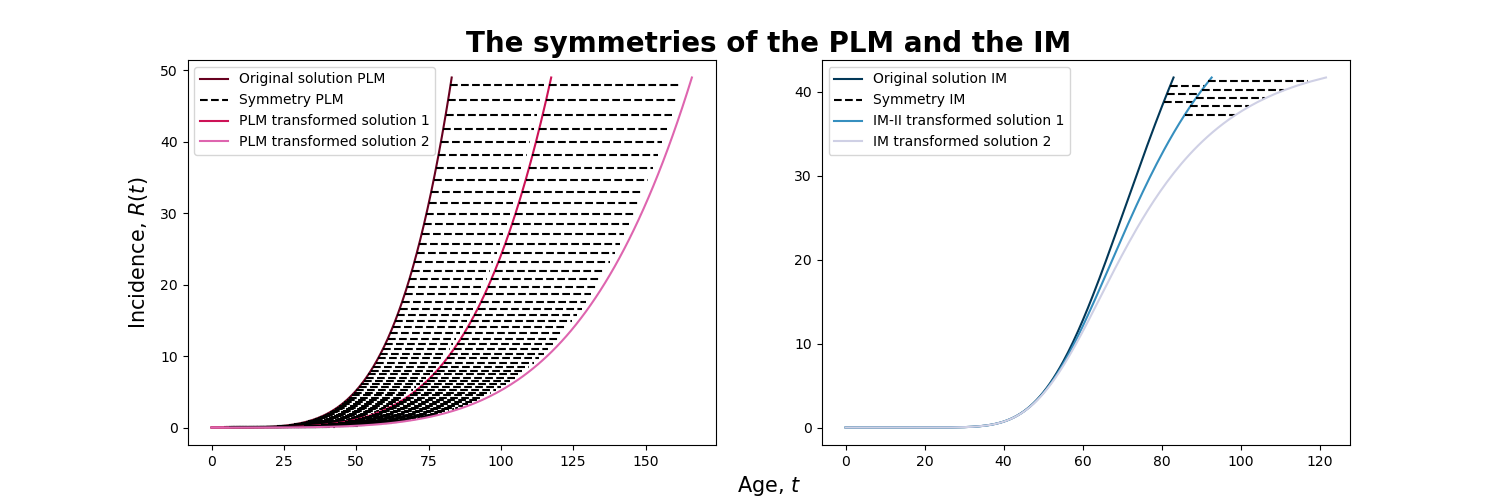
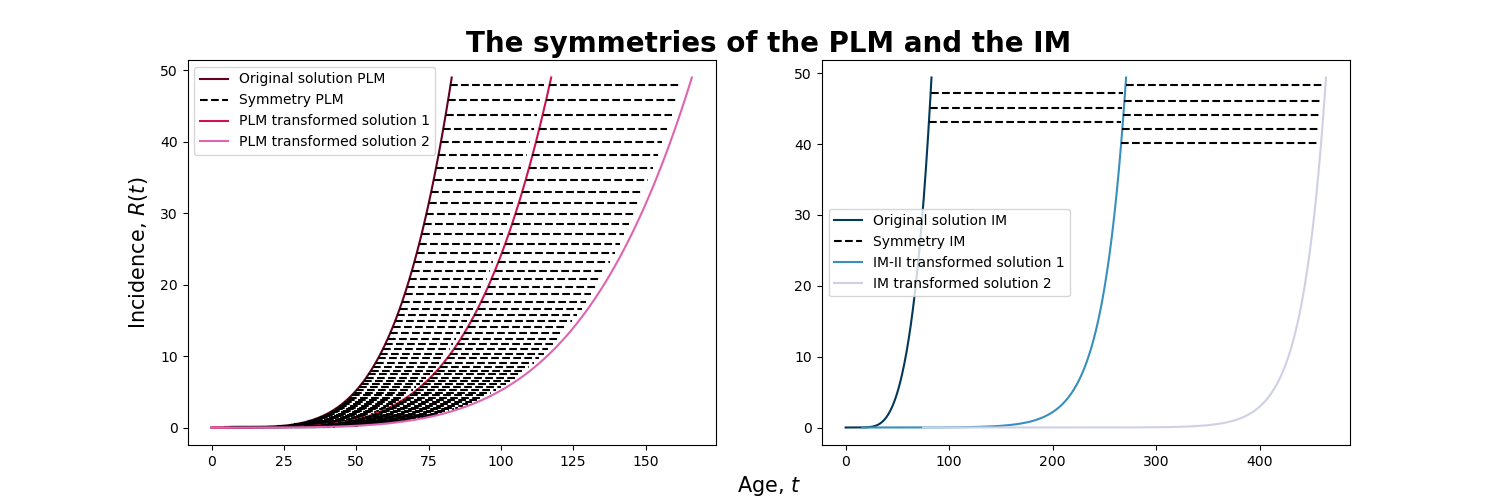
Trying Mystery Gamma

diff --git a/Code/symmetry_toolbox.py b/Code/symmetry_toolbox.py
@@ -111,7 +111,7 @@ def PLM_transformation_scale(n):
 # The symmetry of the immunological model IM
 def IM_symmetry(t,R,epsilon,tau,alpha):
     # Define t_hat recursively
-    t_hat =  np.log(np.log(np.exp(np.exp(-alpha*(t-tau))) - (alpha*np.exp(alpha*tau)*epsilon) ))
+    t_hat =  np.log(np.log(np.exp(-epsilon+np.exp(-alpha*(t-tau))) +1 - np.exp(-epsilon) ))
     t_hat = tau - ((t_hat)/(alpha))
     R_hat = R
     return t_hat,R_hat
@@ -303,10 +303,10 @@ def symmetry_based_model_selection(t_data,R_data,epsilon_vector,model_fitting_st
                 # Fit the PLM to the data without any start guesses
                 fitting_structure, R_hat, RMS, fitting_successful  = fit_to_data.PE_risk_profiles(t_trans,R_trans,"PLM","ODR",[1,0],[original_para[0]*np.exp(-original_para[1]*epsilon), original_para[1]])
             elif model_str == "IM":
-                C_vec = np.linspace(-5,1,10)
-                start_guesses = [[original_para[0],original_para[1],C,original_para[3]] for C in C_vec]
+                A_vec = np.linspace(-5,1,10)
+                start_guesses = [[A,original_para[1],original_para[2],original_para[3]] for A in A_vec]
                 # Fit the IM to the data but without any start guesses
-                fitting_structure, R_hat, RMS, fitting_successful  = fit_to_data.PE_risk_profiles(t_trans,R_trans,"IM","ODR",[0,0,1,0],start_guesses)                          
+                fitting_structure, R_hat, RMS, fitting_successful  = fit_to_data.PE_risk_profiles(t_trans,R_trans,"IM","ODR",[1,0,0,0],start_guesses)                          
             # If fitting was successful, we do the remaining two steps of the algorithm. Otherwise, we break and return our results
             if fitting_successful:                
                 #------------------------------------------------------
@@ -316,7 +316,7 @@ def symmetry_based_model_selection(t_data,R_data,epsilon_vector,model_fitting_st
                     parameters_inverse = [fitting_structure.beta[0]*np.exp(fitting_structure.beta[1]*epsilon),fitting_structure.beta[1]]
                 elif model_str == "IM":
                     # Define the parameters of the inversely transformed curve of the IM (parameters=[A, tau, C, alpha])
-                    parameters_inverse = [fitting_structure.beta[0],fitting_structure.beta[1],fitting_structure.beta[2] + fitting_structure.beta[3]*np.exp(fitting_structure.beta[3]*fitting_structure.beta[1])*epsilon,fitting_structure.beta[3]]                
+                    parameters_inverse = [fitting_structure.beta[0]*np.exp(epsilon),fitting_structure.beta[1],fitting_structure.beta[2],fitting_structure.beta[3]]                
                 #------------------------------------------------------
                 # STEP 4 OUT OF 4: CALCULATE THE FIT OF THE INVERSELY TRANSFORMED CURVE TO THE ORIGINAL DATA
                 # Loop over the transformed time series

diff --git a/Code/fit_to_data.py b/Code/fit_to_data.py
@@ -103,7 +103,7 @@ def PE_risk_profiles(t, R, model_str, fit_string, fixed_parameters, start_guesse
             # In the end, we pick the parameters resulting in the lowest minima. This
             # is because we have a non-convex optimisation problem with many local minima.
             A_vec = np.linspace(0.01, 50, num_of_start_guesses*3, endpoint=True)
-            C_vec = np.linspace(0.5, 1, num_of_start_guesses, endpoint=True)
+            C_vec = np.array([1])
             tau_vec = np.linspace(30, 40, num_of_start_guesses, endpoint=True)
             alpha_vec = np.array([0.044])
             # Save all start guesses in a big list which we loop over in the end
@@ -128,7 +128,7 @@ def PE_risk_profiles(t, R, model_str, fit_string, fixed_parameters, start_guesse
                 odr = ODR(data, model, beta0=parameter_guess, sstol=1e-15, partol=1e-15)
             elif model_str == "IM":
                 # Set up ODR with the model and data.
-                odr = ODR(data, model, beta0=parameter_guess, ifixb=[1, 1, 1, 0],sstol=1e-15, partol=1e-15)                
+                odr = ODR(data, model, beta0=parameter_guess, ifixb=[1, 1, 0, 0],sstol=1e-15, partol=1e-15)                
         else:
             # Set up ODR with the model and data and fixed parameters.
             odr = ODR(data, model, beta0=parameter_guess,

diff --git a/Code/symmetry_analysis_PLM_vs_IM.py b/Code/symmetry_analysis_PLM_vs_IM.py
@@ -143,11 +143,11 @@ plt.savefig("../Figures/Fit_of_models_to_cancer_data.png")
 epsilon_scale_PLM = symmetry_toolbox.PLM_transformation_scale(2)
 # The IM
 # Myeloma data
-epsilon_scale_IM_myeloma = symmetry_toolbox.IM_transformation_scale(85,2,IM_fitted_to_myeloma_ODR.beta[3],IM_fitted_to_myeloma_ODR.beta[1])
+epsilon_scale_IM_myeloma = 17
 # Colon data
-epsilon_scale_IM_colon = symmetry_toolbox.IM_transformation_scale(85,2,IM_fitted_to_colon_ODR.beta[3],IM_fitted_to_colon_ODR.beta[1])
+epsilon_scale_IM_colon = 17
 # CML data
-epsilon_scale_IM_CML = symmetry_toolbox.IM_transformation_scale(85,2,IM_fitted_to_CML_ODR.beta[3],IM_fitted_to_CML_ODR.beta[1])
+epsilon_scale_IM_CML = 17
 # Prompt to the user
 print("\n\t--------------------------------------------------------------------------------------\n")
 print("\n\t\tThe transformation scales increasing the age from 85 years to 170 years\n")
